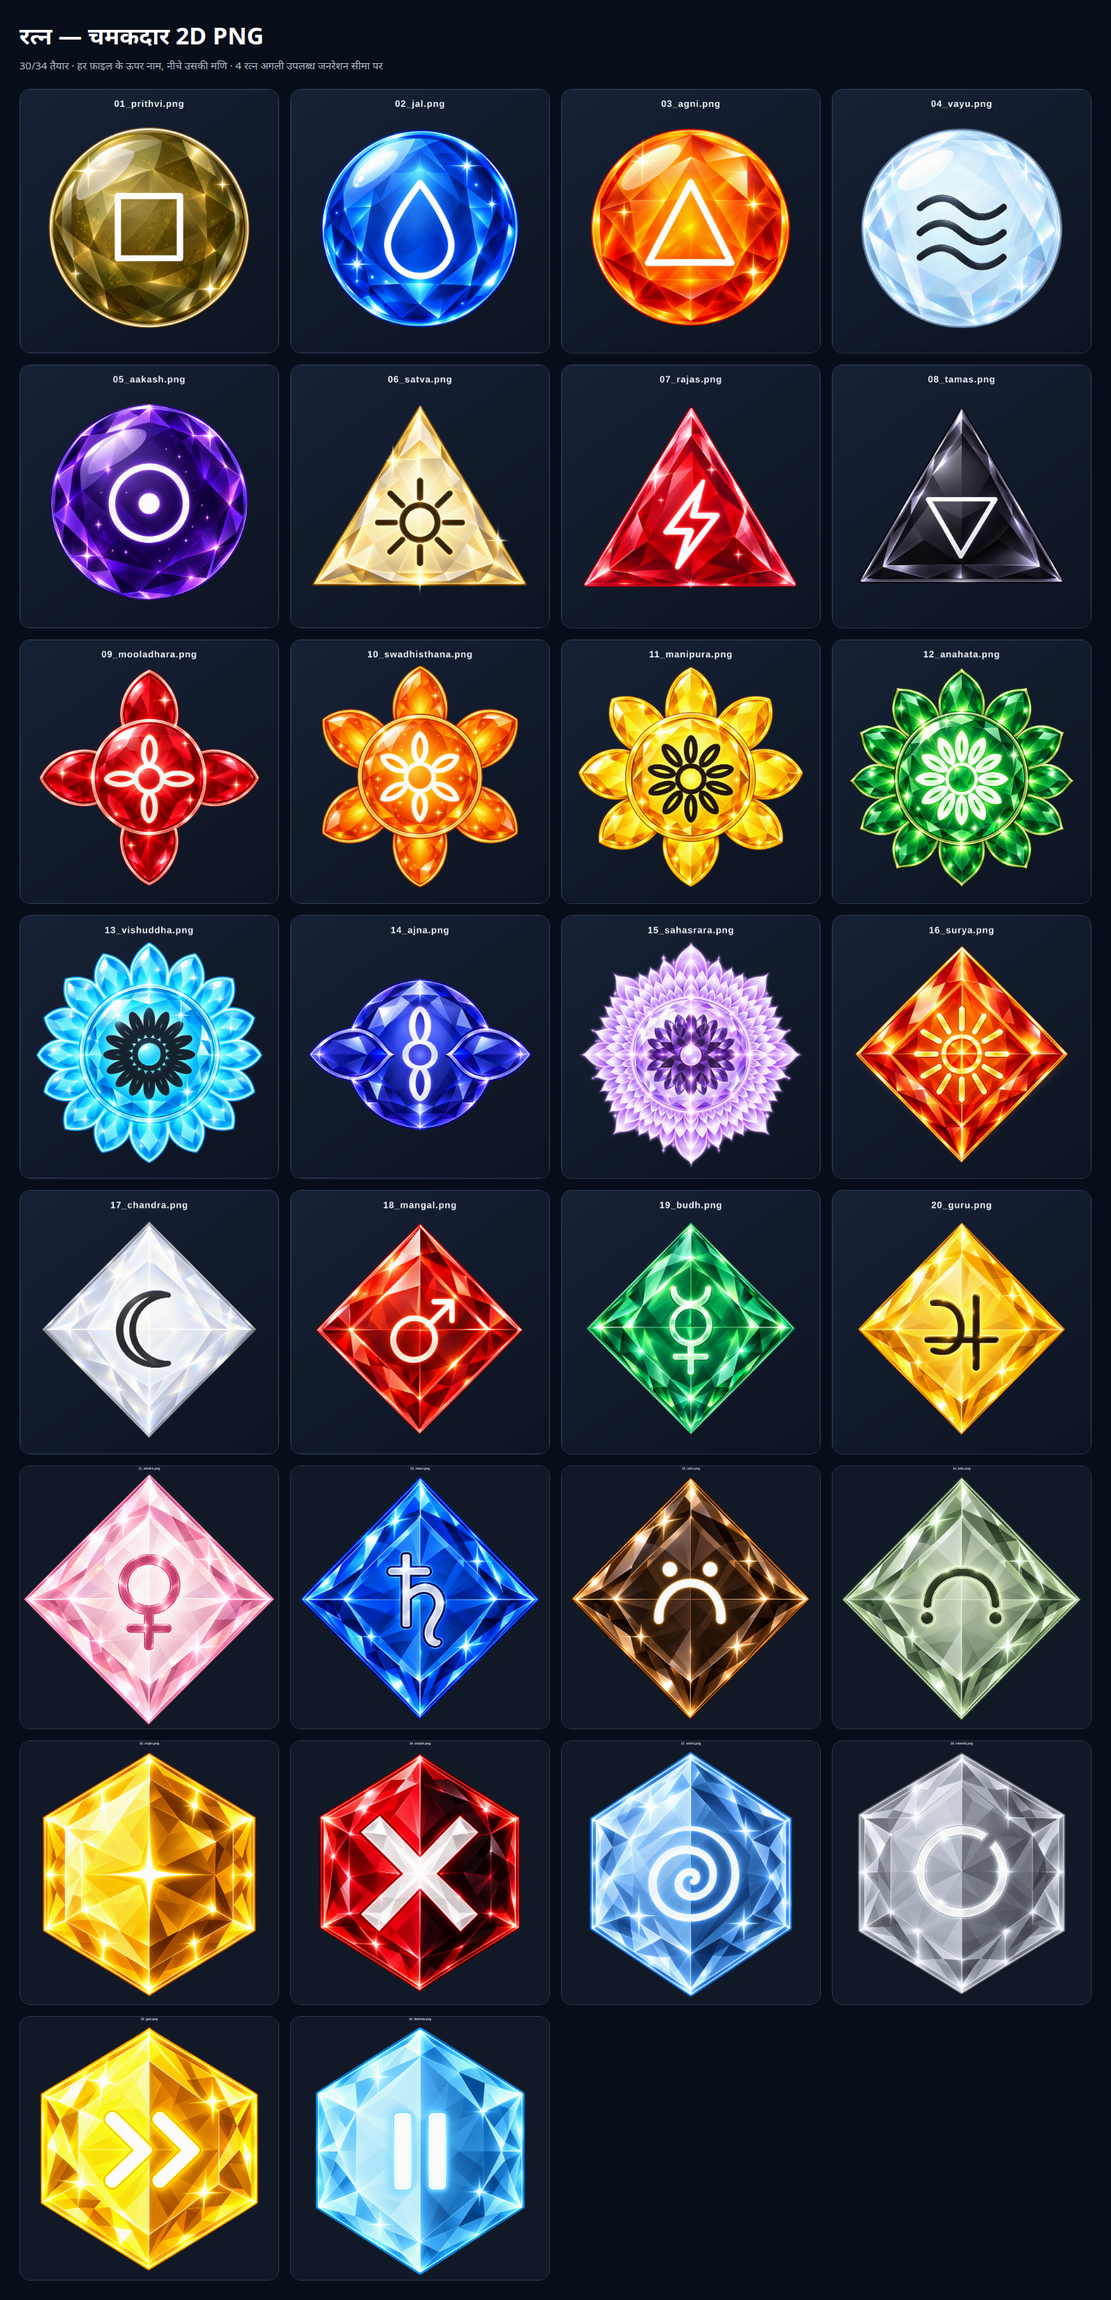
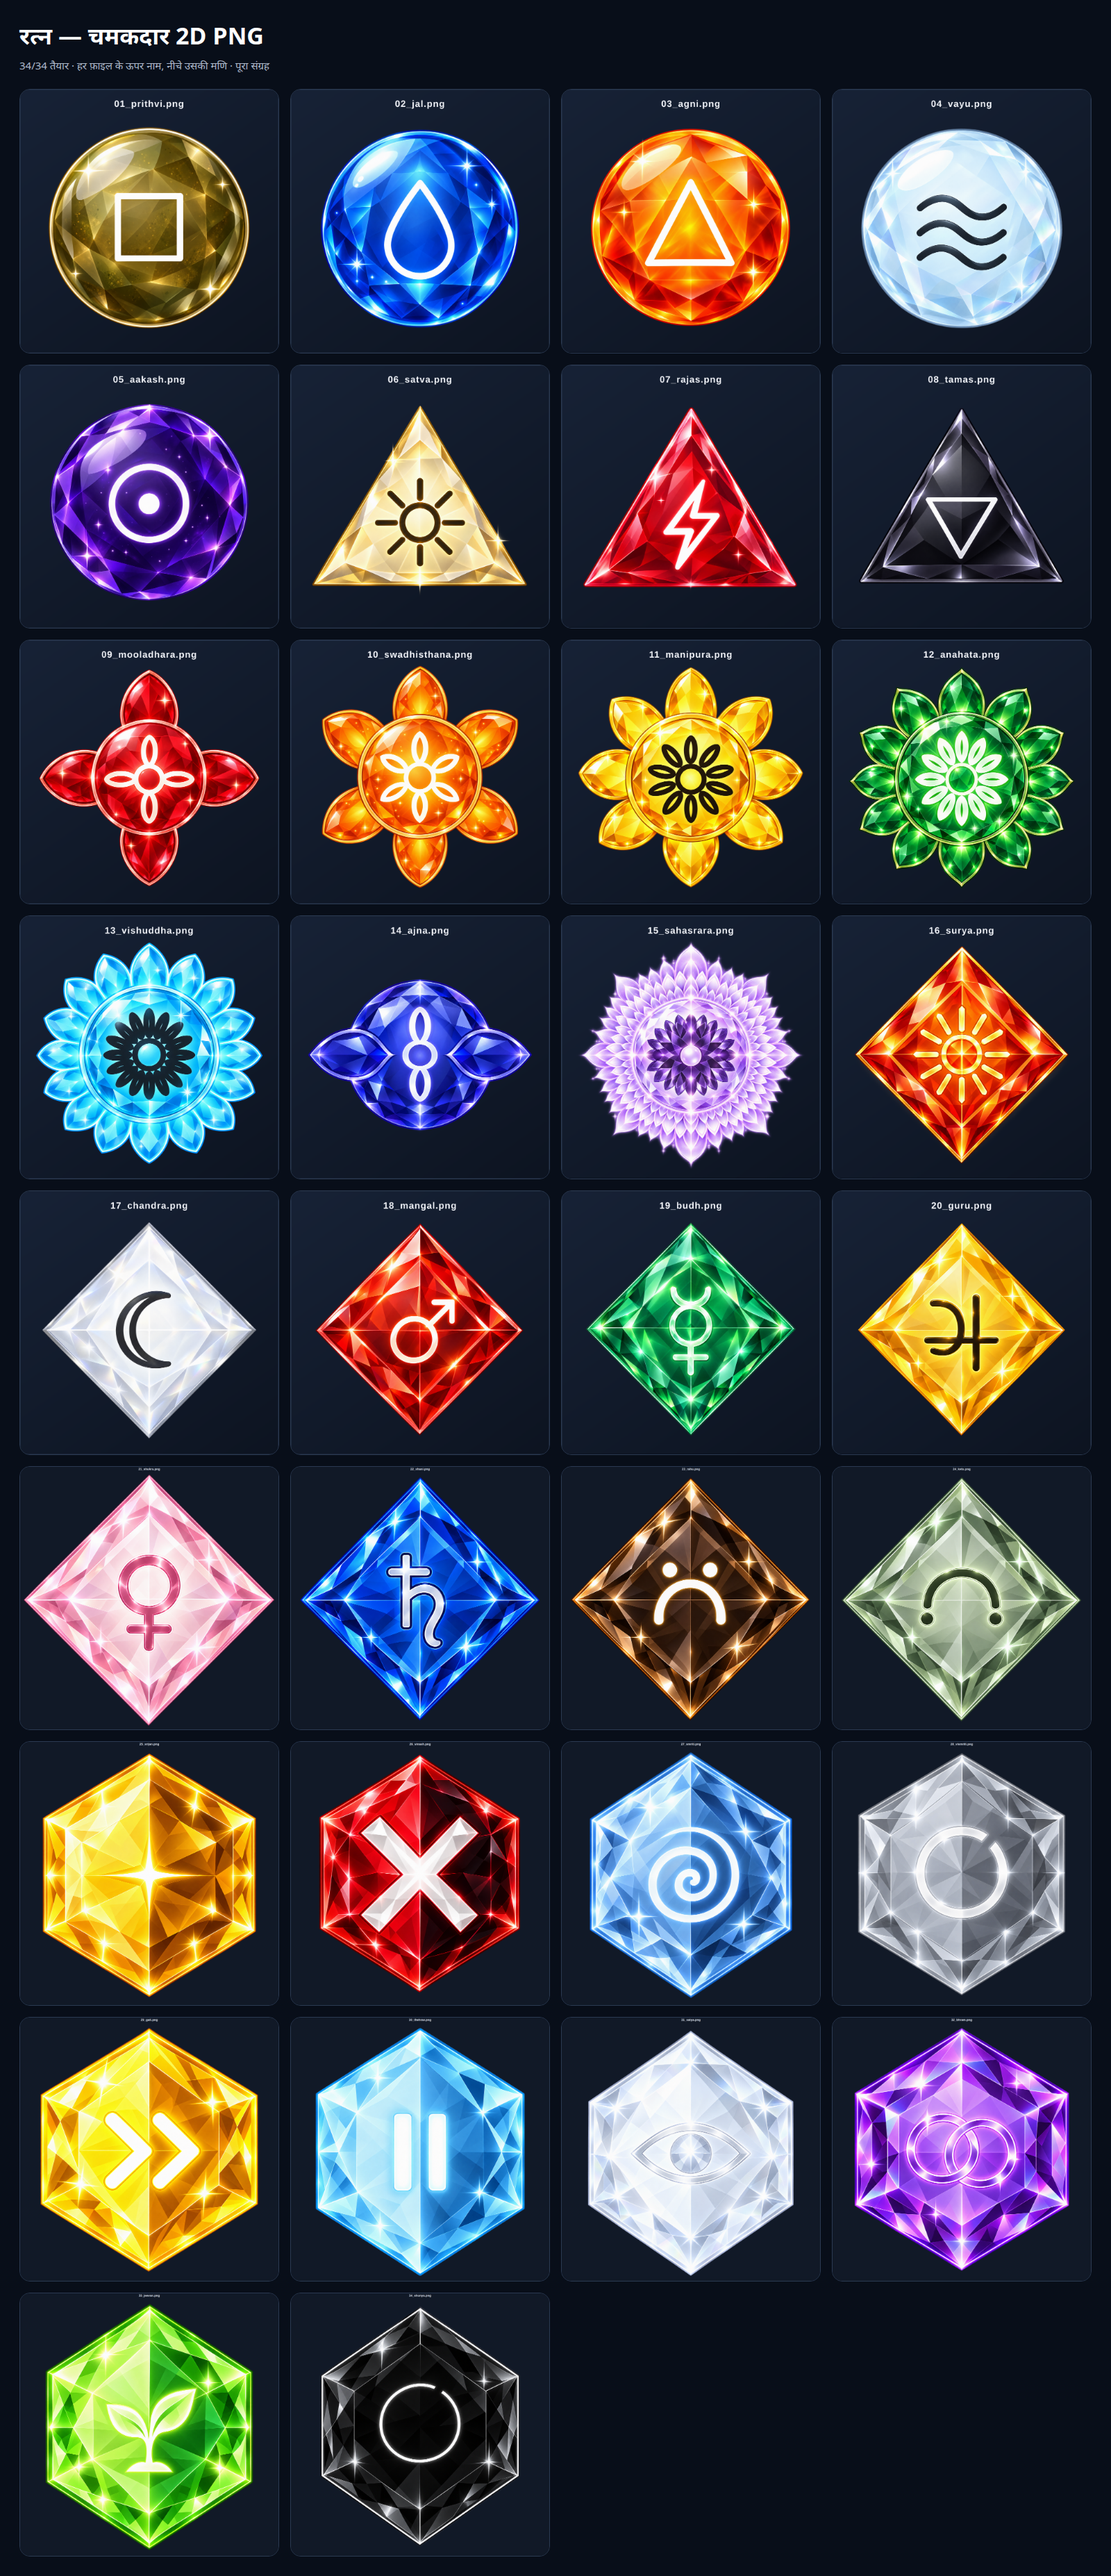
Complete all 34 gemstone cards and overview

diff --git a/assets/रत्न/README.md b/assets/रत्न/README.md
@@ -1,21 +1,25 @@
 # रत्न कार्ड
 
-इस फ़ोल्डर में अलग-अलग चमकदार 2D PNG कार्ड हैं। हर कार्ड में ऊपर पूरा फ़ाइल-नाम और नीचे उसी रत्न की इमेज है। सभी कार्ड 1920 × 1954 px हैं। नाम, रंग, आकार और प्रतीक मूल द्वंद्व 34-रत्न पैक के अनुरूप रखे गए हैं।
+इस फ़ोल्डर में द्वंद्व के सभी **34 चमकदार 2D PNG कार्ड** हैं। हर कार्ड में ऊपर पूरा फ़ाइल-नाम और नीचे उसी रत्न की इमेज है। सभी कार्ड 1920 × 1954 px हैं। नाम, रंग, आकार और प्रतीक मूल 34-रत्न पैक के अनुरूप रखे गए हैं।
 
-**प्रगति: 30/34 कार्ड तैयार।** अंतिम चार कार्ड `31_satya.png` से `34_shunya.png` तक अगली उपलब्ध image-generation quota window में जोड़े जाएँगे; संग्रह अभी अधूरा है।
+**स्थिति: 34/34 पूरे।** संयुक्त शीट इस फ़ोल्डर के बाहर [`../रत्न-संग्रह.png`](../रत्न-संग्रह.png) पर है। सभी रत्नों की शक्तियाँ, फायदे और चरित्र में उपयोग [`../../रत्न-विवरण/README.md`](../../रत्न-विवरण/README.md) में देखें।
 
-- सभी 34 रत्नों की शक्तियाँ, फायदे और चरित्र में उपयोग: [`../../रत्न-विवरण/README.md`](../../रत्न-विवरण/README.md)
-- संयुक्त पूर्वावलोकन (30/34), इस फ़ोल्डर के बाहर: [`../रत्न-संग्रह.png`](../रत्न-संग्रह.png)
-
-## अभी तैयार PNG
-
-01 `01_prithvi.png` · 02 `02_jal.png` · 03 `03_agni.png` · 04 `04_vayu.png` · 05 `05_aakash.png`
-06 `06_satva.png` · 07 `07_rajas.png` · 08 `08_tamas.png` · 09 `09_mooladhara.png` · 10 `10_swadhisthana.png`
-11 `11_manipura.png` · 12 `12_anahata.png` · 13 `13_vishuddha.png` · 14 `14_ajna.png` · 15 `15_sahasrara.png`
-16 `16_surya.png` · 17 `17_chandra.png` · 18 `18_mangal.png` · 19 `19_budh.png` · 20 `20_guru.png`
-21 `21_shukra.png` · 22 `22_shani.png` · 23 `23_rahu.png` · 24 `24_ketu.png` · 25 `25_srijan.png`
-26 `26_vinash.png` · 27 `27_smriti.png` · 28 `28_vismriti.png` · 29 `29_gati.png` · 30 `30_thehrav.png`
-
-## बाकी PNG
-
-`31_satya.png`, `32_bhram.png`, `33_jeevan.png`, `34_shunya.png`
+| # | PNG | # | PNG |
+|---:|---|---:|---|
+| 01 | [`01_prithvi.png`](01_prithvi.png) | 02 | [`02_jal.png`](02_jal.png) |
+| 03 | [`03_agni.png`](03_agni.png) | 04 | [`04_vayu.png`](04_vayu.png) |
+| 05 | [`05_aakash.png`](05_aakash.png) | 06 | [`06_satva.png`](06_satva.png) |
+| 07 | [`07_rajas.png`](07_rajas.png) | 08 | [`08_tamas.png`](08_tamas.png) |
+| 09 | [`09_mooladhara.png`](09_mooladhara.png) | 10 | [`10_swadhisthana.png`](10_swadhisthana.png) |
+| 11 | [`11_manipura.png`](11_manipura.png) | 12 | [`12_anahata.png`](12_anahata.png) |
+| 13 | [`13_vishuddha.png`](13_vishuddha.png) | 14 | [`14_ajna.png`](14_ajna.png) |
+| 15 | [`15_sahasrara.png`](15_sahasrara.png) | 16 | [`16_surya.png`](16_surya.png) |
+| 17 | [`17_chandra.png`](17_chandra.png) | 18 | [`18_mangal.png`](18_mangal.png) |
+| 19 | [`19_budh.png`](19_budh.png) | 20 | [`20_guru.png`](20_guru.png) |
+| 21 | [`21_shukra.png`](21_shukra.png) | 22 | [`22_shani.png`](22_shani.png) |
+| 23 | [`23_rahu.png`](23_rahu.png) | 24 | [`24_ketu.png`](24_ketu.png) |
+| 25 | [`25_srijan.png`](25_srijan.png) | 26 | [`26_vinash.png`](26_vinash.png) |
+| 27 | [`27_smriti.png`](27_smriti.png) | 28 | [`28_vismriti.png`](28_vismriti.png) |
+| 29 | [`29_gati.png`](29_gati.png) | 30 | [`30_thehrav.png`](30_thehrav.png) |
+| 31 | [`31_satya.png`](31_satya.png) | 32 | [`32_bhram.png`](32_bhram.png) |
+| 33 | [`33_jeevan.png`](33_jeevan.png) | 34 | [`34_shunya.png`](34_shunya.png) |

diff --git a/README.md b/README.md
@@ -4,7 +4,7 @@
 ## द्वंद्व के 34 रत्न
 
 - अलग-अलग PNG कार्ड: [`assets/रत्न/`](assets/रत्न/)
-- संयुक्त पूर्वावलोकन, अभी 30/34 कार्ड: [`assets/रत्न-संग्रह.png`](assets/रत्न-संग्रह.png)
+- संयुक्त अंतिम शीट, 34/34 कार्ड: [`assets/रत्न-संग्रह.png`](assets/रत्न-संग्रह.png)
 - सभी 34 रत्नों की शक्तियाँ, फायदे और चरित्र में उपयोग: [`रत्न-विवरण/README.md`](रत्न-विवरण/README.md)
 
-**इमेज स्थिति:** 30/34 अलग-अलग कार्ड तैयार और जोड़े गए हैं। अंतिम चार PNG (`31_satya.png`–`34_shunya.png`) image-generation quota उपलब्ध होने पर जोड़ी जाएँगी; संयुक्त शीट अभी 30/34 का पूर्वावलोकन है, अंतिम 34-रत्न शीट नहीं।
+**इमेज स्थिति:** सभी 34/34 अलग-अलग PNG कार्ड तैयार और जोड़े गए हैं। संयुक्त शीट भी अब पूरा 34-रत्न संग्रह दिखाती है।

diff --git a/रत्न-विवरण/README.md b/रत्न-विवरण/README.md
@@ -196,4 +196,4 @@
 
 ## संग्रह की स्थिति
 
-सभी 34 रत्नों के नाम, मूल शक्तियों, फायदे और चरित्र-उपयोग की जानकारी यहाँ दर्ज है। अलग-अलग कार्डों में अभी 01–30 तैयार हैं; 31–34 की PNG अगली उपलब्ध image-generation quota window में जोड़ी जानी है।
+सभी 34 रत्नों के नाम, मूल शक्तियों, फायदे और चरित्र-उपयोग की जानकारी यहाँ दर्ज है। अलग-अलग कार्डों में अब 01–34, यानी 34/34, तैयार हैं।
